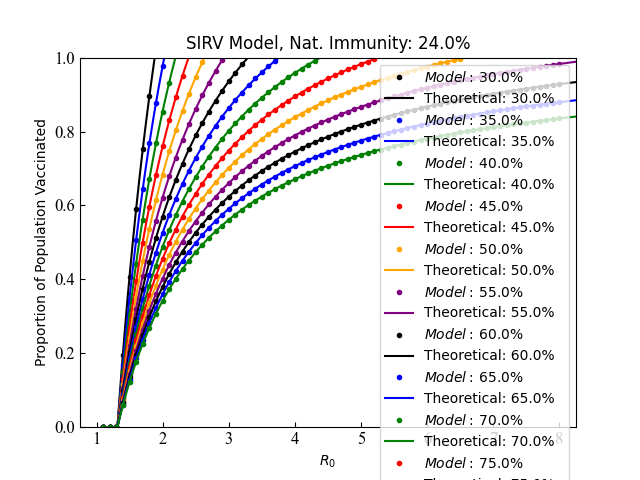
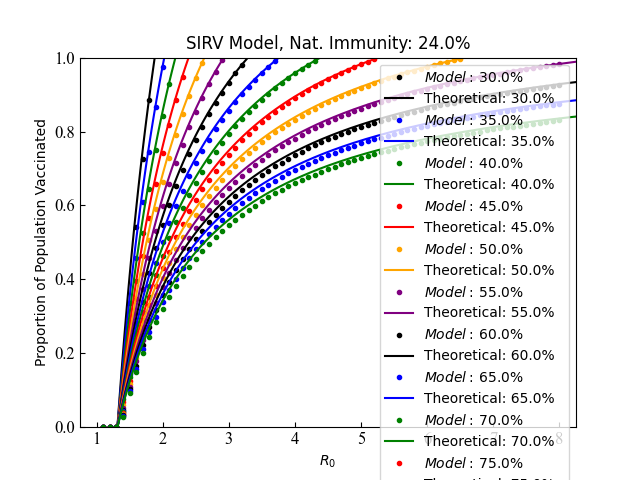
Added residuals in experiment; added plotting files; added functionality for stochastic parameters

diff --git a/vaccinated_fraction_research.py b/vaccinated_fraction_research.py
@@ -14,19 +14,21 @@ from progress.bar import Bar
 
 
 def my_search(model, R_0, vac_ef, nat_imm_rate, rel_acc_wanted=0.01):
+    days = 50
+    vaccination_rate = 0
     population = 1000e3
     high = 998e3
     low = 1e3
     mid = 0.5*(low+high)
 
     vac_frac = high/population
-    max_R_t = run_model(model, population, R_0, vac_frac, nat_imm_rate, vac_ef)[1]
+    max_R_t = run_model(model, population, R_0, vac_frac, nat_imm_rate, vac_ef, vaccination_rate, days)[1]
     
     if max_R_t > 1:
         return None
     else:
         vac_frac = mid/population
-        max_R_t = run_model(model, population, R_0, vac_frac, nat_imm_rate, vac_ef)[1]
+        max_R_t = run_model(model, population, R_0, vac_frac, nat_imm_rate, vac_ef, vaccination_rate, days)[1]
         rel_acc = abs(max_R_t - 1)
         counter = 0
         while rel_acc > rel_acc_wanted:
@@ -35,7 +37,7 @@ def my_search(model, R_0, vac_ef, nat_imm_rate, rel_acc_wanted=0.01):
                 low = mid
                 mid = 0.5*(low+high)
                 vac_frac = mid/population
-                max_R_t = run_model(model, population, R_0, vac_frac, nat_imm_rate, vac_ef)[1]
+                max_R_t = run_model(model, population, R_0, vac_frac, nat_imm_rate, vac_ef, vaccination_rate, days)[1]
                 rel_acc = abs(max_R_t - 1)
                 if counter > 20:
                     break
@@ -43,7 +45,7 @@ def my_search(model, R_0, vac_ef, nat_imm_rate, rel_acc_wanted=0.01):
                 high = mid
                 mid = 0.5*(low+high)
                 vac_frac = mid/population
-                max_R_t = run_model(model, population, R_0, vac_frac, nat_imm_rate, vac_ef)[1]
+                max_R_t = run_model(model, population, R_0, vac_frac, nat_imm_rate, vac_ef, vaccination_rate, days)[1]
                 rel_acc = abs(max_R_t - 1)
                 if counter > 20:
                     break
@@ -55,15 +57,15 @@ def theoretical(V, E, nat_imm=0):
 
 
 def use_args(args):
-    n_i = 0.24
-    R_0_space = np.linspace(0, 0.999, 101)
+    n_i = 0
+    vaccinated_fraction_space = np.linspace(0, 0.999, 101)
     R_0s = np.linspace(1.1, 8, 70)
     vaccine_efficacies = np.linspace(0.3, 1, 15)
 
     theoretical_curves = []
     for i in range(len(vaccine_efficacies)):
-        theoretical_curves.append(theoretical(R_0_space, vaccine_efficacies[i], nat_imm=n_i))
-
+        theoretical_curves.append(theoretical(vaccinated_fraction_space, vaccine_efficacies[i], nat_imm=n_i))
+    
     vaccine_efficacy_curves = []
     R_0_to_plot = []
 
@@ -82,12 +84,22 @@ def use_args(args):
             vaccine_efficacy_curves.append(curve)
             R_0_to_plot.append(curve_R_0)
         bar.finish()
+        
+        residuals_metrics = []
+        for i in range(len(vaccine_efficacies)):
+            t = theoretical(np.array(vaccine_efficacy_curves[i]), vaccine_efficacies[i], nat_imm=n_i)
+            fractional_residuals = (t-R_0_to_plot[i])/t
+            residuals_metrics.append([np.average(fractional_residuals), max(abs(fractional_residuals))])
+        residuals_metrics = np.array(residuals_metrics)
+        avg_res = np.average(residuals_metrics[:,0])
+        max_res = max(residuals_metrics[:,1])
+        print('Average residual:', avg_res, '\nMaximum residual:', max_res)
 
         fig, ax = plt.subplots()
         colors = ['black', 'blue', 'green', 'red', 'orange', 'purple']
         for i in range(len(vaccine_efficacy_curves)):
             plt.plot(R_0_to_plot[i], vaccine_efficacy_curves[i], '.', label=r'$Model: \: {}$'.format(str(round(vaccine_efficacies[i]*100, 0)))+'%', color=colors[i%len(colors)])
-            plt.plot(theoretical_curves[i], R_0_space, label=r'Theoretical: {}%'.format(str(round(vaccine_efficacies[i]*100, 0))), color=colors[i%len(colors)])
+            plt.plot(theoretical_curves[i], vaccinated_fraction_space, label=r'Theoretical: {}%'.format(str(round(vaccine_efficacies[i]*100, 0))), color=colors[i%len(colors)])
         plt.minorticks_off()
         ax.tick_params(direction='in')
         ax.tick_params(which='minor', direction='in')
@@ -116,12 +128,22 @@ def use_args(args):
             vaccine_efficacy_curves.append(curve)
             R_0_to_plot.append(curve_R_0)
         bar.finish()
+        
+        residuals_metrics = []
+        for i in range(len(vaccine_efficacies)):
+            t = theoretical(np.array(vaccine_efficacy_curves[i]), vaccine_efficacies[i], nat_imm=n_i)
+            fractional_residuals = (t-R_0_to_plot[i])/t
+            residuals_metrics.append([np.average(fractional_residuals), max(abs(fractional_residuals))])
+        residuals_metrics = np.array(residuals_metrics)
+        avg_res = np.average(residuals_metrics[:,0])
+        max_res = max(residuals_metrics[:,1])
+        print('Average residual:', avg_res, '\nMaximum residual:', max_res)
 
         fig, ax = plt.subplots()
         colors = ['black', 'blue', 'green', 'red', 'orange', 'purple']
         for i in range(len(vaccine_efficacy_curves)):
             plt.plot(R_0_to_plot[i], vaccine_efficacy_curves[i], '.', label=r'$Model: \: {}$'.format(str(round(vaccine_efficacies[i]*100, 0)))+'%', color=colors[i%len(colors)])
-            plt.plot(theoretical_curves[i], R_0_space, label=r'Theoretical: {}%'.format(str(round(vaccine_efficacies[i]*100, 0))), color=colors[i%len(colors)])
+            plt.plot(theoretical_curves[i], vaccinated_fraction_space, label=r'Theoretical: {}%'.format(str(round(vaccine_efficacies[i]*100, 0))), color=colors[i%len(colors)])
         plt.minorticks_off()
         ax.tick_params(direction='in')
         ax.tick_params(which='minor', direction='in')

diff --git a/run_model.py b/run_model.py
@@ -7,24 +7,30 @@ from scipy.integrate import solve_ivp
 """
 
 
-def run_model(model, population, R_0, vac_frac, nat_imm_rate, vac_ef):
+def run_model(model, population, R_0, vac_frac, nat_imm_rate, vac_ef, vaccination_rate, days=50, stochastic=False):
     if model == 'sirv':
-        return run_sirv(models[model], population, R_0, vac_frac, nat_imm_rate, vac_ef)
+        return run_sirv(models[model], population, R_0, vac_frac, nat_imm_rate, vac_ef, days, stochastic)
     elif model == 'sirv_c':
-        return run_sirv_c(models[model], population, R_0, vac_frac, nat_imm_rate, vac_ef)
+        return run_sirv_c(models[model], population, R_0, vac_frac, nat_imm_rate, vac_ef, vaccination_rate, days, stochastic)
     else:
         raise ValueError('Model not available')
 
 
-def run_sirv(func, pop, R_0, vac_frac, nat_imm_rate, vac_ef):
-    t_span = np.array([0, 50])
+def run_sirv(func, pop, R_0, vac_frac, nat_imm_rate, vac_ef, days, stochastic=False):
+    t_span = np.array([0, days])
     t = np.linspace(t_span[0], t_span[1], t_span[1] + 1)
 
     susceptible = (pop - 1e3 - pop*nat_imm_rate)*(1-vac_frac)
     infected = 1e3*(1-vac_frac)
     recovered = pop*nat_imm_rate
     x_0 = [susceptible, infected, recovered, (pop-susceptible-infected-recovered)]
-    args = (R_0*(1/6), (1/6), vac_ef, pop)
+
+    if stochastic:
+        R_0 = np.random.normal(loc=4.5, scale=1)  # Draw an R_0 value from a Gaussian distribution
+        g = np.random.normal(loc=(1/6), scale=(1/25))  # Draw an inverse serial number from a Gaussian distribution
+        args = (R_0*g, g, vac_ef, pop)
+    else:
+        args = (R_0*(1/6), (1/6), vac_ef, pop)
 
     solutions = solve_ivp(func, t_span, x_0, args=args, t_eval=t)
     S = solutions.y[0]
@@ -38,16 +44,23 @@ def run_sirv(func, pop, R_0, vac_frac, nat_imm_rate, vac_ef):
     return [S, I, R, V], max(R_t)
 
 
-def run_sirv_c(func, pop, R_0, vac_frac, nat_imm_rate, vac_ef):
-    t_span = np.array([0, 50])
+def run_sirv_c(func, pop, R_0, vac_frac, nat_imm_rate, vac_ef, vaccination_rate, days, stochastic=False):
+    t_span = np.array([0, days])
     t = np.linspace(t_span[0], t_span[1], t_span[1] + 1)
 
     susceptible = (pop - 1e3 - pop*nat_imm_rate)*(1-vac_frac)
     symptomatic = 1e3*(1-vac_frac)
     recovered = pop*nat_imm_rate
     x_0 = [susceptible, 0, 0, symptomatic, 0, recovered, 0, (pop-susceptible-symptomatic-recovered), 0, 0, 0]
-    args = (R_0*(1/6), R_0*(1/6), 0, 0.083333333, 0.15, 0.1, (1/6), (1/6), 0.075, 0.003428571, 0.025, (1-vac_ef)*R_0*(1/6), (1-vac_ef)*R_0*(1/6), 0.1, 0.00035, 0.1, 0.00125, 0.2, (1/6))
-            
+
+    if stochastic:
+        R_0 = np.random.normal(loc=3.5, scale=1)  # Draw an R_0 value from a Gaussian distribution
+        # g = np.random.normal(loc=(1/6), scale=(1/25))  # Draw an inverse serial number from a Gaussian distribution
+        g = (1/6)
+        args = (R_0*g, R_0*g, vaccination_rate, 0.083333333, 0.15, 0.1, g, g, 0.075, 0.003428571, 0.025, (1-vac_ef)*R_0*g, (1-vac_ef)*R_0*g, 0.1, 0.00035, 0.1, 0.00125, 0.2, g)
+    else:
+        args = (R_0*(1/6), R_0*(1/6), vaccination_rate, 0.083333333, 0.15, 0.1, (1/6), (1/6), 0.075, 0.003428571, 0.025, (1-vac_ef)*R_0*(1/6), (1-vac_ef)*R_0*(1/6), 0.1, 0.00035, 0.1, 0.00125, 0.2, (1/6))
+    
     solutions = solve_ivp(func, t_span, x_0, args=args, t_eval=t)
     S = solutions.y[0]
     E = solutions.y[1]

diff --git a/plot_stochastic_models.py b/plot_stochastic_models.py
@@ -1,0 +1,41 @@
+from run_model import run_model
+import matplotlib.pyplot as plt
+import argparse
+import numpy as np
+
+"""
+    This file is used to plot compartmental models with stochastic parameters and see dynamics / time-evolutions of different compartments.
+"""
+
+
+def use_args(args):
+    t_span = np.array([0, args.days])
+    t = np.linspace(t_span[0], t_span[1], t_span[1] + 1)
+    solutions = []
+    for i in range(10):
+        solutions.append(run_model('sirv_c', population=1000e3, R_0=3.5, vac_frac=0, nat_imm_rate=0, vac_ef=0.8, vaccination_rate=0.006, days=args.days, stochastic=True)[0])
+        S, E, A, Sy, H, R, D, V, A_v, Sy_v, H_v = solutions[i]
+        N = S + E + A + Sy + H + R + V + A_v + Sy_v + H_v
+        plt.plot(t, S/N, label='Susceptible', color='blue')
+        plt.plot(t, E/N, label='Exposed', color='yellow')
+        plt.plot(t, (A+A_v)/N, label='Asymptomatic', color='orange')
+        plt.plot(t, (Sy+Sy_v)/N, label='Symptomatic', color='red')
+        plt.plot(t, V/N, label='Vaccinated', color='green')
+        plt.plot(t, (H+H_v)/N, label='Hospitalised', color='brown')
+        plt.plot(t, R/N, label='Recovered', color='pink')
+        plt.plot(t, D/N, label='Deceased', color='black')
+        plt.title(r'$SIRV \: Complex \: Model \:- \: Stochastic \: R_0 \: Time \: Evolution$')
+        plt.xlabel('Time [days]')
+        plt.ylabel('Proportion of Population')
+        if i == 0:
+            plt.legend()
+    plt.savefig('Plots/sirv_c_stochastic.png')
+    plt.show()
+
+
+if __name__ == '__main__':
+    parser = argparse.ArgumentParser(description='Georgios Alevras: Plotter of Compartmental Models',
+                                     epilog='Enjoy the script :)')
+    parser.add_argument('-d', '--days', type=int, help='Number of days of model to run')
+    arguments = parser.parse_args()  # Parses all arguments provided at script on command-line
+    use_args(arguments)  # Executes code according to arguments provided

diff --git a/plot_models.py b/plot_models.py
@@ -1,0 +1,39 @@
+from run_model import run_model
+import matplotlib.pyplot as plt
+import argparse
+import numpy as np
+
+"""
+    This file is used to plot compartmental models and see dynamics / time-evolutions of different compartments.
+"""
+
+
+def use_args(args):
+    t_span = np.array([0, args.days])
+    t = np.linspace(t_span[0], t_span[1], t_span[1] + 1)
+    solutions = run_model('sirv_c', population=1000e3, R_0=3.5, vac_frac=0, nat_imm_rate=0, vac_ef=0.8, vaccination_rate=0.006, days=args.days)[0]
+    S, E, A, Sy, H, R, D, V, A_v, Sy_v, H_v = solutions
+    N = S + E + A + Sy + H + R + V + A_v + Sy_v + H_v
+    print('Deceased:', round(D[-1], 0))  # Total number of deaths during 'pandemic'
+    print('Hospitalised Peak:', round(max(H), 0))  # Highest number of hospitalised individuals in a given day
+    plt.plot(t, S/N, label='Susceptible')
+    plt.plot(t, E/N, label='Exposed')
+    plt.plot(t, (A+A_v)/N, label='Asymptomatic')
+    plt.plot(t, (Sy+Sy_v)/N, label='Symptomatic')
+    plt.plot(t, V/N, label='Vaccinated')
+    plt.plot(t, (H+H_v)/N, label='Hospitalised')
+    plt.plot(t, R/N, label='Recovered')
+    plt.plot(t, D/N, label='Deceased')
+    plt.xlabel('Time [days]')
+    plt.ylabel('Proportion of Population')
+    plt.legend()
+    plt.savefig('Plots/sirv_c.png')
+    plt.show()
+
+
+if __name__ == '__main__':
+    parser = argparse.ArgumentParser(description='Georgios Alevras: Plotter of Compartmental Models',
+                                     epilog='Enjoy the script :)')
+    parser.add_argument('-d', '--days', type=int, help='Number of days of model to run')
+    arguments = parser.parse_args()  # Parses all arguments provided at script on command-line
+    use_args(arguments)  # Executes code according to arguments provided

diff --git a/models.py b/models.py
@@ -2,7 +2,6 @@ import numpy as np
 
 """
     This file contains all the compartmental models - their ODEs
-
 """
 
 
